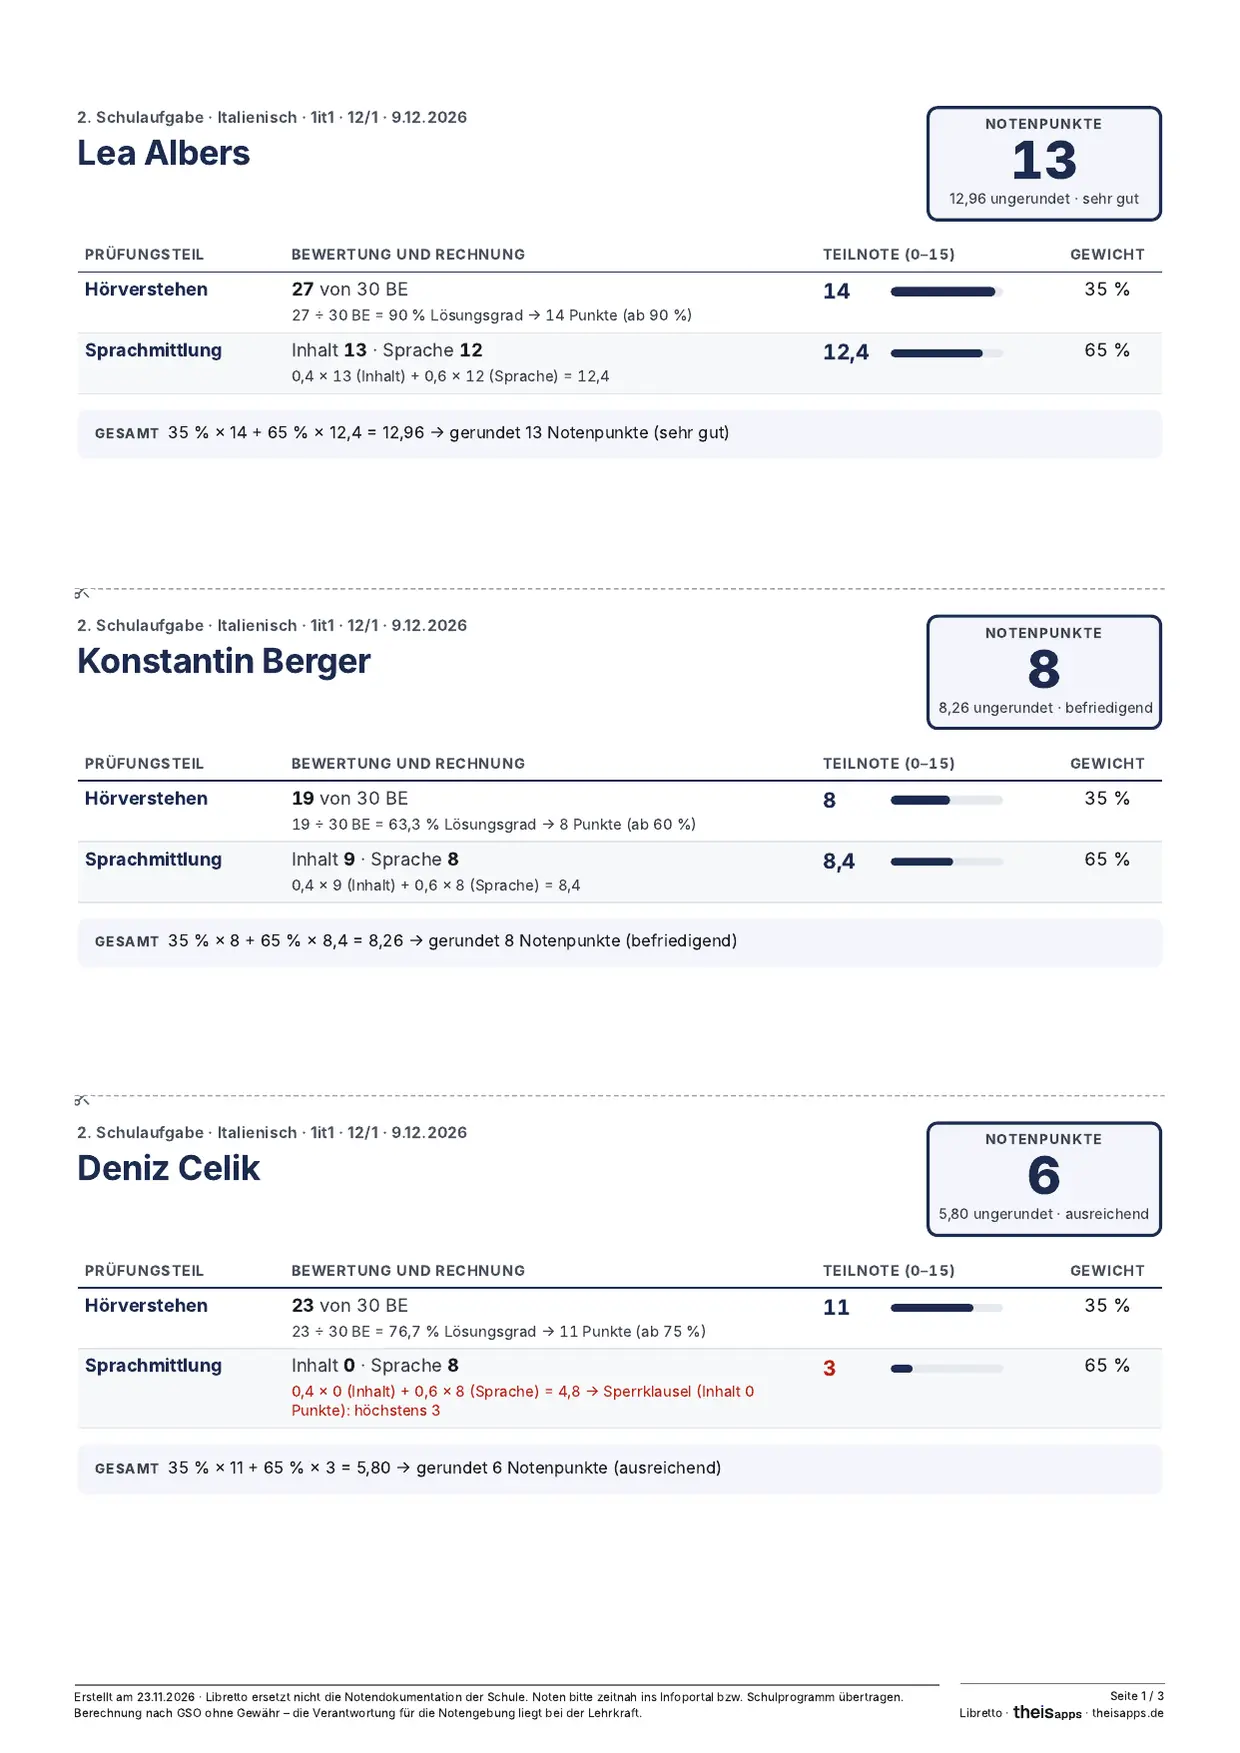
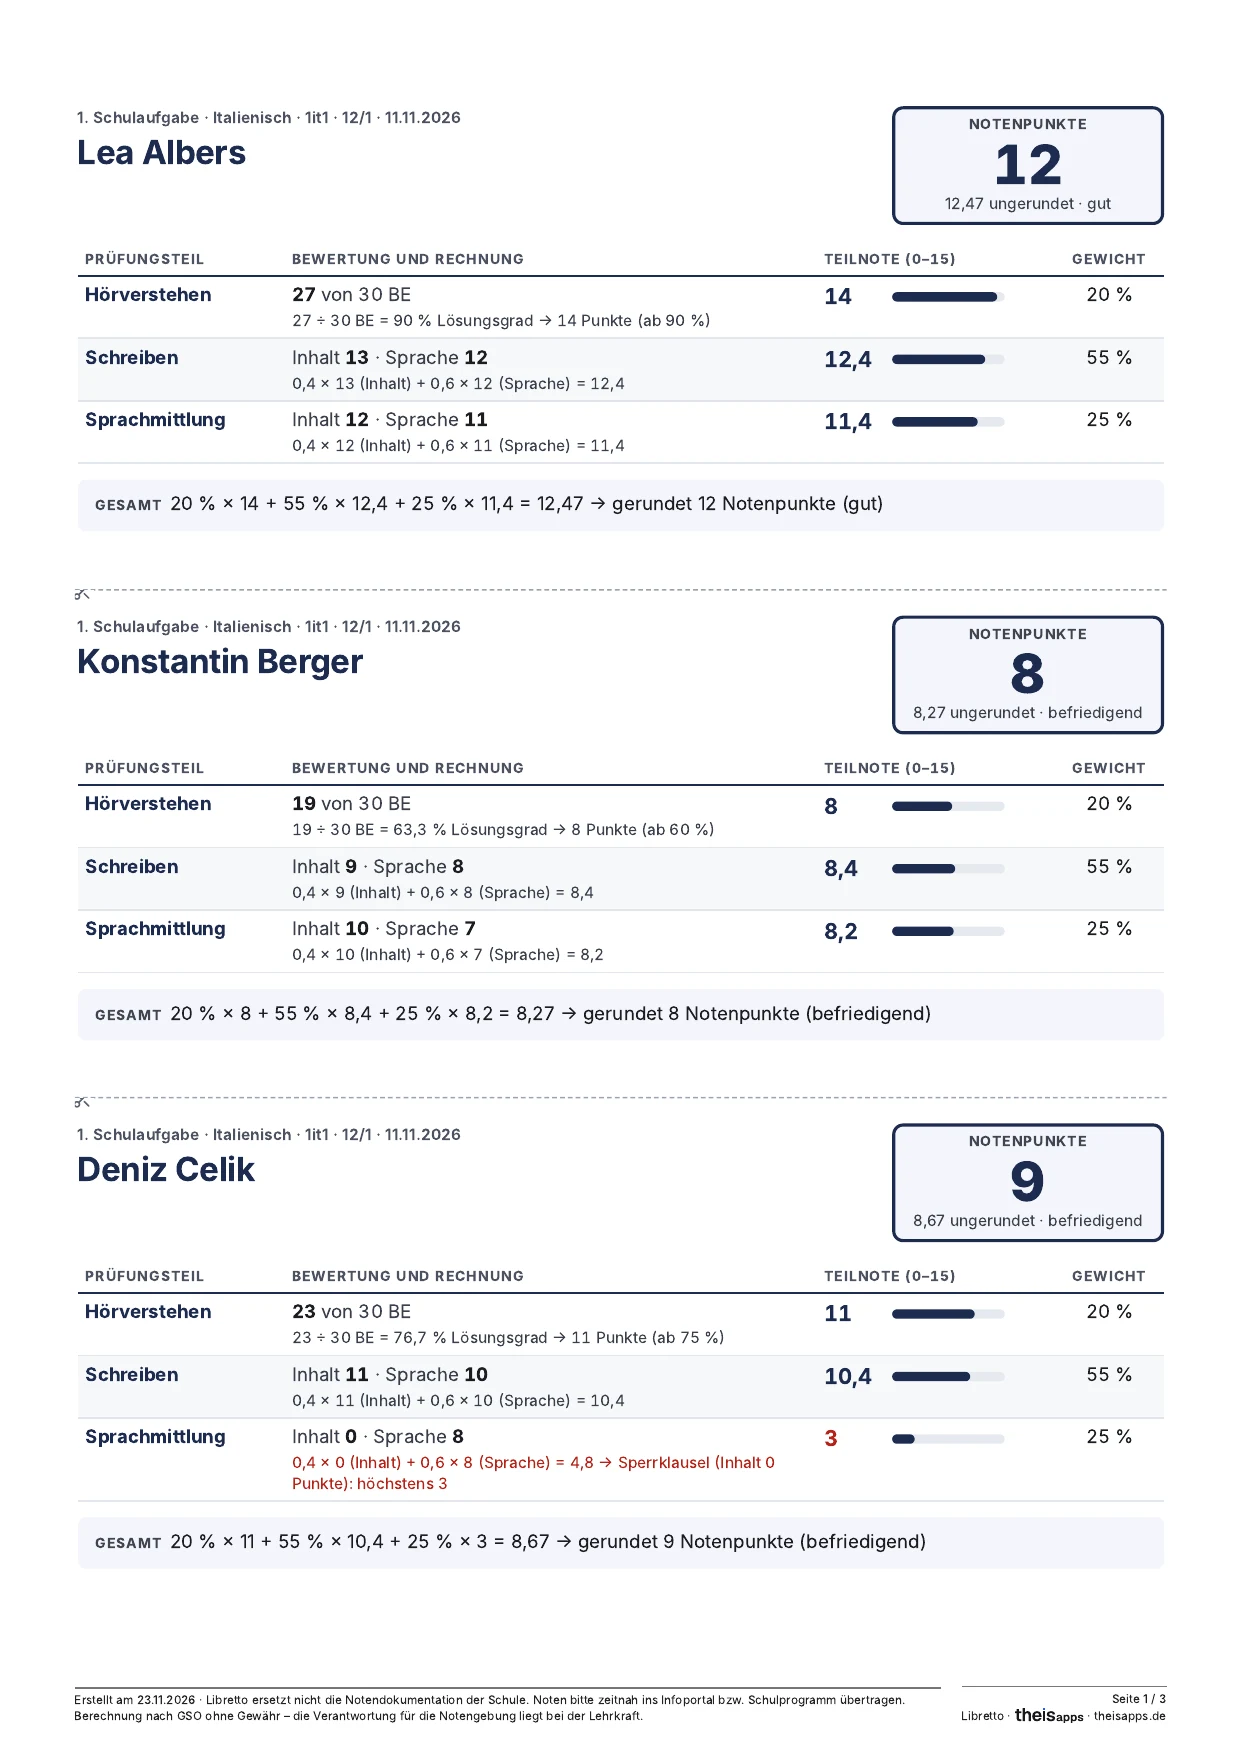
Libretto 1.1.4: Schülerübersichten als Tabelle oder grafisch, Fenster führen zurück
Claude-Session: https://claude.ai/code/session_01CYga6QpGAYaLVUB4AhPBBg

diff --git a/libretto/index.html b/libretto/index.html
@@ -45,12 +45,12 @@
 <div class="why"><div><h3>Rechnet, wie es in Bayern vorgeschrieben ist</h3><p>Zeugnisnote nach § 28, Halbjahresleistungen nach § 29 GSO, Notenschlüssel nach dem KMK-Raster oder dem Beschluss Ihrer Fachschaft.</p></div><div><h3>Für den Alltag gebaut</h3><p>Note tippen, Enter, nächste Person. Beim Öffnen sehen Sie, was fehlt und was ansteht.</p></div><div><h3>Ihre Daten gehören Ihnen</h3><p>Kein Server, kein Konto, AES-256-Verschlüsselung und automatische Sicherung auf USB-Stick oder Cloud-Ordner.</p></div></div><div class="neu" id="neu"><div class="neu-hd"><span class="neu-tag">Neu in Libretto</span><h2>Was Libretto jetzt zusätzlich kann</h2></div>
 <div class="neu-grid">
 <article class="neu-card wide"><div class="neu-tx"><span class="neu-pill">Neu</span><h3>Mit dem Finger entsperren – und alles steht exakt untereinander</h3><p>Am Mac einfach mit dem Finger entsperren: Das Fingerabdruck-Zeichen sitzt direkt im Passwortfeld, und der Mac fragt beim Start von selbst nach dem Finger. Das Passwort bleibt trotzdem immer gültig: Es wird nur verschlüsselt im Schlüsselbund des Mac abgelegt, nie im Sicherungsordner. Außerdem stehen Noten und Punkte in der Notentabelle und in allen Ausdrucken (PDF und Word) exakt untereinander, auch mit Plus, Minus oder Hinweis-Punkt. Und die Übersicht zeigt je Kurs auf einen Blick, wie die Noten verteilt sind.</p><ul class="ticks"><li>Touch ID am Mac, freiwillig (Einstellungen, Sicherheit)</li><li>Noten exakt untereinander, am Bildschirm und im Ausdruck, Dezimalzahlen am Komma ausgerichtet</li><li>Notenverteilung je Kurs in der Übersicht</li><li>Acht aufgeräumte Farbwelten</li><li>Schalter im Dunkelmodus besser erkennbar</li></ul></div><div class="neu-pic"><img src="../assets/img/libretto-touchid.webp?v=8703039c" alt="Libretto am Mac: Anmeldung mit Fingerabdruck-Zeichen direkt im Passwortfeld" width="2000" height="1520" loading="lazy" decoding="async"></div></article>
-<article class="neu-card wide"><div class="neu-tx"><span class="neu-pill">Neu</span><h3>Schülerübersichten für die Oberstufe</h3><p>Für Klausuren nach Prüfungsteilen in den modernen Fremdsprachen druckt Libretto je Schüler eine Übersicht: Hörverstehen mit BE und Lösungsgrad, Schreiben und Sprachmittlung mit Inhalt und Sprache, jede Teilnote, die Sperrklausel mit Begründung und die ganze Rechnung bis zu den Notenpunkten. Drei Schüler je A4-Seite, zum Ausschneiden – ganz ohne Excel.</p><ul class="ticks"><li>Jede Teilnote mit Rechenweg</li><li>Sperrklausel mit Begründung</li><li>Drei Schüler je A4-Seite, zum Ausschneiden</li></ul></div><div class="neu-pic"><img src="../assets/img/libretto-neu-schueleruebersichten.webp?v=07dfe4b9" alt="Libretto: ausgedruckte Schülerübersichten einer Oberstufen-Klausur mit Teilnoten, Rechnung und Notenpunkten" width="1240" height="1753" loading="lazy" decoding="async" style="max-width:380px;margin:0 auto;display:block"></div></article>
+<article class="neu-card wide"><div class="neu-tx"><span class="neu-pill">Neu</span><h3>Schülerübersichten für die Oberstufe</h3><p>Für Klausuren nach Prüfungsteilen in den modernen Fremdsprachen druckt Libretto je Schüler eine Übersicht: Hörverstehen mit BE und Lösungsgrad, Schreiben und Sprachmittlung mit Inhalt und Sprache, jede Teilnote, die Sperrklausel mit Begründung und die ganze Rechnung bis zu den Notenpunkten. Wahlweise als Tabelle oder grafisch – mit Ring für die Notenpunkte und Balken, die zeigen, wie viel jeder Teil zur Note beiträgt. Drei Schüler je A4-Seite, zum Ausschneiden – ganz ohne Excel.</p><ul class="ticks"><li>Jede Teilnote mit Rechenweg</li><li>Sperrklausel mit Begründung</li><li>Als Tabelle oder grafisch</li><li>Drei Schüler je A4-Seite, zum Ausschneiden</li></ul></div><div class="neu-pic"><div style="display:flex;gap:16px;max-width:620px;margin:0 auto"><figure style="margin:0;flex:1 1 0;min-width:0"><img src="../assets/img/libretto-neu-schueleruebersichten.webp?v=c0ca3f2c" alt="Libretto: Schülerübersichten als Tabelle mit Teilnoten, Rechnung und Notenpunkten" width="1242" height="1756" loading="lazy" decoding="async" style="display:block;width:100%;height:auto"><figcaption style="text-align:center;font-size:13px;opacity:.75;margin-top:8px">Tabelle</figcaption></figure><figure style="margin:0;flex:1 1 0;min-width:0"><img src="../assets/img/libretto-neu-schueleruebersichten-grafisch.webp?v=7e13a3d3" alt="Libretto: Schülerübersichten grafisch mit Ring für die Notenpunkte und Balken je Prüfungsteil" width="1242" height="1756" loading="lazy" decoding="async" style="display:block;width:100%;height:auto"><figcaption style="text-align:center;font-size:13px;opacity:.75;margin-top:8px">Grafik</figcaption></figure></div></div></article>
 <article class="neu-card wide ws"><div class="neu-tx"><span class="neu-pill">Neu</span><h3>Das W-Seminar komplett – vom ersten Beratungsgespräch bis zum Prüfungsgespräch</h3><p>Libretto bringt die Bewertungsbögen nach der Vorlage des ISB mit: die Seminararbeit nach Form, Sprache, Methode und Inhalt, das Prüfungsgespräch nach fünf Kompetenzen. Sie vergeben Einschätzungen und Punkte und schreiben Anmerkungen, Libretto rechnet einen Vorschlag und druckt einen sauberen Bewertungsbogen als PDF oder Word. Beratungsgespräche halten Sie mit Zielvereinbarung fest; beim nächsten Gespräch steht die letzte Vereinbarung schon oben. Und die Termine der Prüfungsgespräche verteilt Libretto auf Wunsch automatisch.</p><ul class="ticks"><li>W- und P-Seminar mit Leitfach</li><li>Bewertungsbögen nach der Vorlage des ISB, an die Schule anpassbar</li><li>Vorschlag aus den Teilbewertungen, die Note setzt die Lehrkraft</li><li>Leere Bögen zum Ausfüllen von Hand</li><li>Beratungsgespräch mit Zielvereinbarung, KI-Einsatz und Leitfragen</li><li>Terminliste der Prüfungsgespräche (höchstens 25 Minuten, § 24 GSO)</li><li>Kurztitel fürs Abiturzeugnis</li></ul></div><div class="ws-main"><img src="../assets/img/libretto-wseminar-bewertungsbogen-pruefung.webp?v=e7375ced" alt="Libretto: ausgedruckter Bewertungsbogen für das Prüfungsgespräch mit fünf Kompetenzen, Punkten, Anmerkungen und Vorschlag" width="911" height="1288" loading="lazy" decoding="async"></div><div class="ws-strip"><figure><img src="../assets/img/libretto-wseminar-bewerten.webp?v=98f47b88" alt="Libretto: Prüfungsgespräch bewerten, Punkte je Kompetenz mit Anmerkungen" width="1440" height="1000" loading="lazy" decoding="async"><figcaption>Prüfungsgespräch bewerten</figcaption></figure><figure><img src="../assets/img/libretto-wseminar-beratung.webp?v=4001fd1a" alt="Libretto: Beratungsgespräch mit der Zielvereinbarung aus dem letzten Gespräch" width="1440" height="1000" loading="lazy" decoding="async"><figcaption>Beratungsgespräch mit Zielvereinbarung</figcaption></figure><figure><img src="../assets/img/libretto-wseminar-termine.webp?v=a9bb1d53" alt="Libretto: Terminliste der Prüfungsgespräche, automatisch verteilt" width="1440" height="1000" loading="lazy" decoding="async"><figcaption>Termine der Prüfungsgespräche</figcaption></figure><figure><img class="top" src="../assets/img/libretto-wseminar-bewertungsbogen-arbeit.webp?v=f30b0a47" alt="Libretto: ausgedruckter Bewertungsbogen für die Seminararbeit nach Form, Sprache, Methode und Inhalt" width="911" height="1288" loading="lazy" decoding="async"><figcaption>Bewertungsbogen Seminararbeit</figcaption></figure></div></article>
 <article class="neu-card wide"><div class="neu-tx"><h3>Fristen fürs Notenmachen im Blick</h3><p>Zwischenbericht oder Zwischenzeugnis, Halbjahr, Zeugnis 12/1 und 13/1, Zulassung zum Abitur, Jahreszeugnis: Jede Schule regelt das anders. Libretto merkt sich Ihre Termine und den Notenschluss und zeigt in jedem Kurs nur die Fristen, die für ihn gelten. Zwei Wochen vorher erinnert die Übersicht daran, mit allem, was noch fehlt: Noten und offene Nachtermine.</p><ul class="ticks"><li>Zwischenberichte oder Halbjahreszeugnis, je nach Schule (§ 40 GSO)</li><li>Je Kurs nur die passenden Fristen: Jahrgangsstufe 5–11, Q12, Q13</li><li>W-Seminar: Themenwahl und Abgabe der Seminararbeit</li><li>Im Kalender rot markiert</li></ul></div><div class="neu-pic"><img src="../assets/img/libretto-fristen-uebersicht.webp?v=d5b9c305" alt="Libretto: Übersicht mit den nächsten Fristen fürs Notenmachen und dem, was noch fehlt" width="1440" height="1000" loading="lazy" decoding="async"></div></article>
 <article class="neu-card"><div class="neu-pic"><img src="../assets/img/libretto-fristen-schulkalender.webp?v=1980f066" alt="Libretto: Termine aus dem Schulkalender, zum Übernehmen als Fristen angeboten" width="1440" height="1000" loading="lazy" decoding="async"></div><div class="neu-tx"><h3>Termine einlesen statt abtippen</h3><p>Den Terminkalender der Schule als CSV aus dem Infoportal einlesen: Libretto erkennt Zwischenberichte, Zeugnistermine und Klassenkonferenzen und bietet sie mit einem Klick zum Übernehmen an. Einen eigenen Notenschluss überschreibt es dabei nie. Oder den Schulkalender per Link abonnieren, dann kommen neue Termine von selbst.</p></div></article>
 <article class="neu-card"><div class="neu-pic"><img src="../assets/img/libretto-simulation-faktor.webp?v=10a10a9d" alt="Libretto: Simulation mit doppelt gewerteter Aufgabe, ganze Klassenliste mit Noten vorher und nachher" width="1440" height="1000" loading="lazy" decoding="async"></div><div class="neu-tx"><h3>Erst ausprobieren, dann entscheiden</h3><p>Was passiert, wenn Aufgabe 1 doppelt zählt oder die 4 erst bei 55 % beginnt? Libretto rechnet es an einer Kopie durch und zeigt die ganze Klasse: wer besser wird, wer schlechter, Durchschnitt und Zahl der Fünfer vorher und nachher. Als PDF oder Word ausdrucken, etwa für das Gespräch mit der Fachbetreuung. Geändert wird erst, wenn Sie es wollen.</p></div></article>
-<article class="neu-card wide list"><h3>Außerdem neu</h3><ul class="neu-list"><li><b>Leistungsfach Sport.</b> Fach Sport und Sporttheorie in einem Kurs, die Endpunktzahl genau nach der Bekanntmachung des Kultusministeriums.</li><li><b>Wie die Rechentabelle des ISB.</b> Hörverstehen in Q12/Q13 rechnet Libretto genau wie die Rechentabelle, dazu Vorlagen für Schulaufgaben nach dem ISB-Leitfaden.</li><li><b>Gastschüler.</b> Mit Zeitraum anlegen; ihre Noten zählen oder werden nur dokumentiert.</li><li><b>Zwischensumme im Aufgabenblatt.</b> Für Schreibaufgabe und Sprachmittlung, z. B. (4 + 6) × 2 = 20, zum Übertragen auf den Korrekturbogen.</li><li><b>An den Datenschutz gedacht.</b> Libretto erinnert an alte Kurse, die nach LDO § 14a gelöscht werden müssen. Löschen oder bewusst behalten, gelöscht wird nie von selbst.</li></ul></article>
+<article class="neu-card wide list"><h3>Außerdem neu</h3><ul class="neu-list"><li><b>Leistungsfach Sport.</b> Fach Sport und Sporttheorie in einem Kurs, die Endpunktzahl genau nach der Bekanntmachung des Kultusministeriums.</li><li><b>Wie die Rechentabelle des ISB.</b> Hörverstehen in Q12/Q13 rechnet Libretto genau wie die Rechentabelle, dazu Vorlagen für Schulaufgaben nach dem ISB-Leitfaden.</li><li><b>Gastschüler.</b> Mit Zeitraum anlegen; ihre Noten zählen oder werden nur dokumentiert.</li><li><b>Zwischensumme im Aufgabenblatt.</b> Für Schreibaufgabe und Sprachmittlung, z. B. (4 + 6) × 2 = 20, zum Übertragen auf den Korrekturbogen.</li><li><b>Fenster führen zurück.</b> Wer aus einem Leistungsnachweis die Teilnoten öffnet oder aus den Einstellungen das Quellenverzeichnis, landet beim Schließen wieder dort, wo er war.</li><li><b>An den Datenschutz gedacht.</b> Libretto erinnert an alte Kurse, die nach LDO § 14a gelöscht werden müssen. Löschen oder bewusst behalten, gelöscht wird nie von selbst.</li></ul></article>
 </div></div><div class="fx"><div class="tx"><h2>Übersicht beim Öffnen</h2><p>Libretto zeigt gleich, was zu tun ist: fehlende Noten mit Rückgabefrist nach § 25 GSO, offene Nachtermine, die nächsten vier Wochen, den Durchschnitt je Kurs und die nächsten Fristen fürs Notenmachen (Notenschluss, Zwischenbericht, Zeugnistermine). Links liegen Suche, Kalender, Sicherung und alle Klassen und Kurse.</p><ul class="ticks"><li>Notenverteilung je Kurs auf einen Blick</li><li>Kurse nach Stufen: Unter- und Mittelstufe, Oberstufe ab Jahrgangsstufe 11, Seminare eigens</li><li>Suche nach Schüler oder Kurs mit Strg+K bzw. ⌘K</li><li>Neuer Leistungsnachweis, Übertrag und Notenliste mit einem Klick</li><li>Stand der letzten Sicherung immer sichtbar</li></ul></div>
 <div class="pic"><img src="../assets/img/libretto-uebersicht-notenverteilung.webp?v=57071682" alt="Libretto: Übersicht mit Zu erledigen, Als Nächstes und der Notenverteilung je Kurs" width="1440" height="900" loading="lazy" decoding="async"></div></div><div class="fx rev"><div class="tx"><h2>Acht Farbwelten, sechs Schriften</h2><p>Liquid Glass, Apple, Neon, Heft, Graphit, Laguna, Glut und Wald, jeweils hell und dunkel, auf Wunsch automatisch mit dem Gerät. Dazu sechs Schriften, darunter eine besonders gut lesbare, und eine größere Textgröße für große Bildschirme und den Beamer. Ausdrucke und Notenfarben bleiben immer gleich.</p><ul class="ticks"><li>Einstellen unter Einstellungen und Aussehen</li><li>Gilt nur auf dem jeweiligen Gerät</li><li>In der Demo im Browser zum Ausprobieren</li></ul></div>
 <div class="pic t"><img src="../assets/img/libretto-neu-einstellungen.webp?v=1f6dcffb" alt="Libretto: Einstellungen, Bereich Aussehen mit acht Farbwelten, Helligkeit, sechs Schriften und Textgröße" width="1800" height="1125" loading="lazy" decoding="async"></div></div><div class="fx"><div class="tx"><h2>Schnell eintragen, sicher rechnen</h2><p>Noten tippen wie im Infoportal: Note, Enter, nächste Person. Durchschnitte, Gewichtung und Zeugnisnote nach § 28 GSO stehen sofort da, der Klassendurchschnitt unter jeder Spalte.</p><ul class="ticks"><li>Kürzel E (entschuldigt), B (befreit), 6* (versäumt, § 26 Abs. 4) und U (Unterschleif)</li><li>„Rückgängig“, wenn Sie eine Note überschreiben</li><li>Zeugnisnote als Vorschlag, Grenzfälle markiert</li><li>Übertragsliste zum Abhaken: Was steht schon im Infoportal?</li></ul></div>
